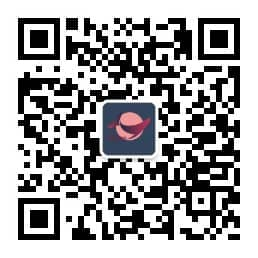
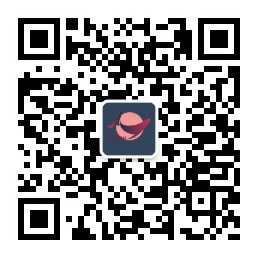
use darker red for highlight; compress gongzhonghao.jpg better

diff --git a/styles/custom.css b/styles/custom.css
@@ -59,7 +59,7 @@ footer a:hover {
 }
 .highlight {
     font-weight: bold;
-    color: #cd3554;
+    color: #861e32;
 }
 .nav-logo-holder {
     display: inline-block;
